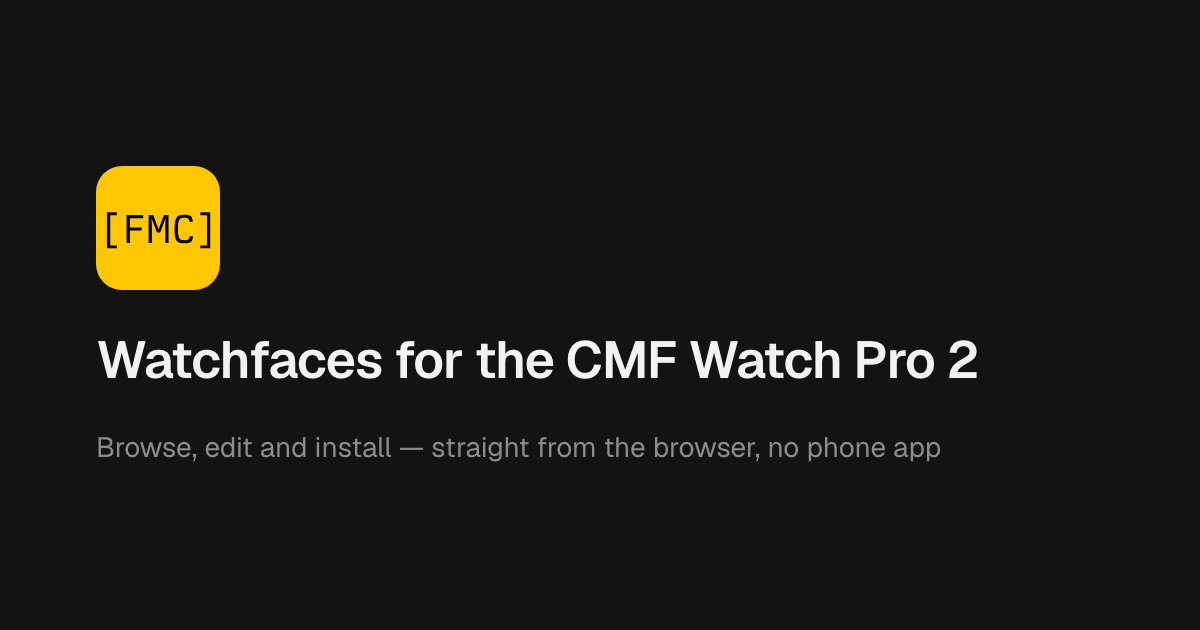
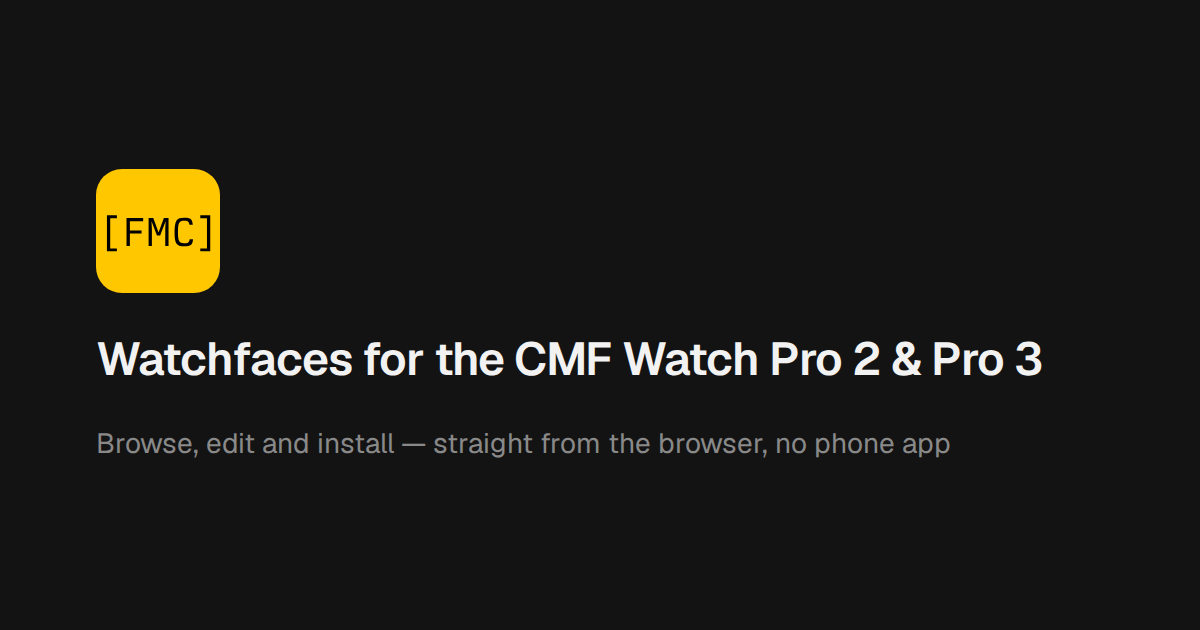
Keep the fallback shell's card from claiming every route is the home page
build/index.html is served for /editor and for every face or creator published since the last
deploy, so a canonical and og:url pointing at / told Google they were all duplicates of it. The
site-wide card now leaves both out; the per-record stubs keep theirs.

Also: the share card spells the device from copy.ts (Pro 2 & Pro 3) instead of its own copy,
and scripts/ is typechecked with the app, since they import src/ and run on every deploy.

Claude-Session: https://claude.ai/code/session_01QNuUeJBZUJ4FxYcCMug516

diff --git a/scripts/seo.ts b/scripts/seo.ts
@@ -42,8 +42,8 @@ const DEFAULT_ALT = `${SITE_NAME} — watchfaces for the ${DEVICE}`;
 interface Card {
   title: string;
   description: string;
-  /** absolute, canonical */
-  url: string;
+  /** absolute, canonical; left out on the shared fallback shell — see siteCard */
+  url?: string;
   image: string;
   imageAlt: string;
   /** square dial render vs the 1200x630 wordmark card — see the twitter:card note below */
@@ -71,7 +71,7 @@ const metaBlock = (c: Card) => {
     ["property=og:site_name", SITE_NAME],
     ["property=og:title", c.title],
     ["property=og:description", c.description],
-    ["property=og:url", c.url],
+    ...(c.url ? ([["property=og:url", c.url]] as [string, string][]) : []),
     ["property=og:image", c.image],
     ["property=og:image:alt", c.imageAlt],
     // a dial is square: asking for the wide card would letterbox-crop the top and bottom of
@@ -84,7 +84,7 @@ const metaBlock = (c: Card) => {
 
   return [
     `<title>${esc(c.title)}</title>`,
-    `<link rel="canonical" href="${esc(c.url)}" />`,
+    ...(c.url ? [`<link rel="canonical" href="${esc(c.url)}" />`] : []),
     ...tags.map(([k, v]) => {
       const [attr, name] = k.split("=");
 
@@ -154,10 +154,11 @@ if (!REGION.test(shell))
 const withCard = (c: Card) =>
   shell.replace(REGION, `<!--seo:start-->\n    ${metaBlock(c)}\n    <!--seo:end-->`);
 
+// no url: this file is also what /editor and every face published since the last deploy get
+// served, and a canonical pointing at / would tell Google they are all duplicates of the home page
 const siteCard: Card = {
   title: siteTitle(),
   description: siteDesc(),
-  url: `${SITE}/`,
   image: DEFAULT_IMAGE,
   imageAlt: DEFAULT_ALT,
 };

diff --git a/scripts/og-card.ts b/scripts/og-card.ts
@@ -8,6 +8,7 @@ import { readFile, writeFile } from "node:fs/promises";
 import { dirname, join } from "node:path";
 import { fileURLToPath } from "node:url";
 import { chromium } from "playwright";
+import { DEVICE } from "../src/lib/shared/seo/copy.ts";
 
 const STATIC = join(dirname(fileURLToPath(import.meta.url)), "..", "static");
 
@@ -32,12 +33,12 @@ const html = `<!doctype html>
   .mark { width: 124px; height: 124px; border-radius: 26px; overflow: hidden; }
   .mark svg { display: block; width: 100%; height: 100%; }
   /* both lines are sized to sit on one line at 1008px of usable width */
-  h1 { font-size: 52px; font-weight: 600; letter-spacing: -1px; }
+  h1 { font-size: 46px; font-weight: 600; letter-spacing: -1px; }
   p { font-size: 28px; font-weight: 400; color: oklch(from ${PAPER} l c h / 55%); }
 </style></head>
 <body>
   <div class="mark">${mark}</div>
-  <h1>Watchfaces for the CMF Watch Pro 2</h1>
+  <h1>Watchfaces for the ${DEVICE}</h1>
   <p>Browse, edit and install — straight from the browser, no phone app</p>
 </body></html>`;
 

diff --git a/vite.config.ts b/vite.config.ts
@@ -21,6 +21,12 @@ export default defineConfig({
       },
       // SPA: the editor lives entirely on browser APIs (canvas, BLE)
       adapter: adapter({ fallback: "index.html" }),
+      // the build scripts import src/ and run on every deploy — typecheck them with the app
+      typescript: {
+        config: (c) => {
+          c.include.push("../scripts/**/*.ts");
+        },
+      },
     }),
   ],
 });
